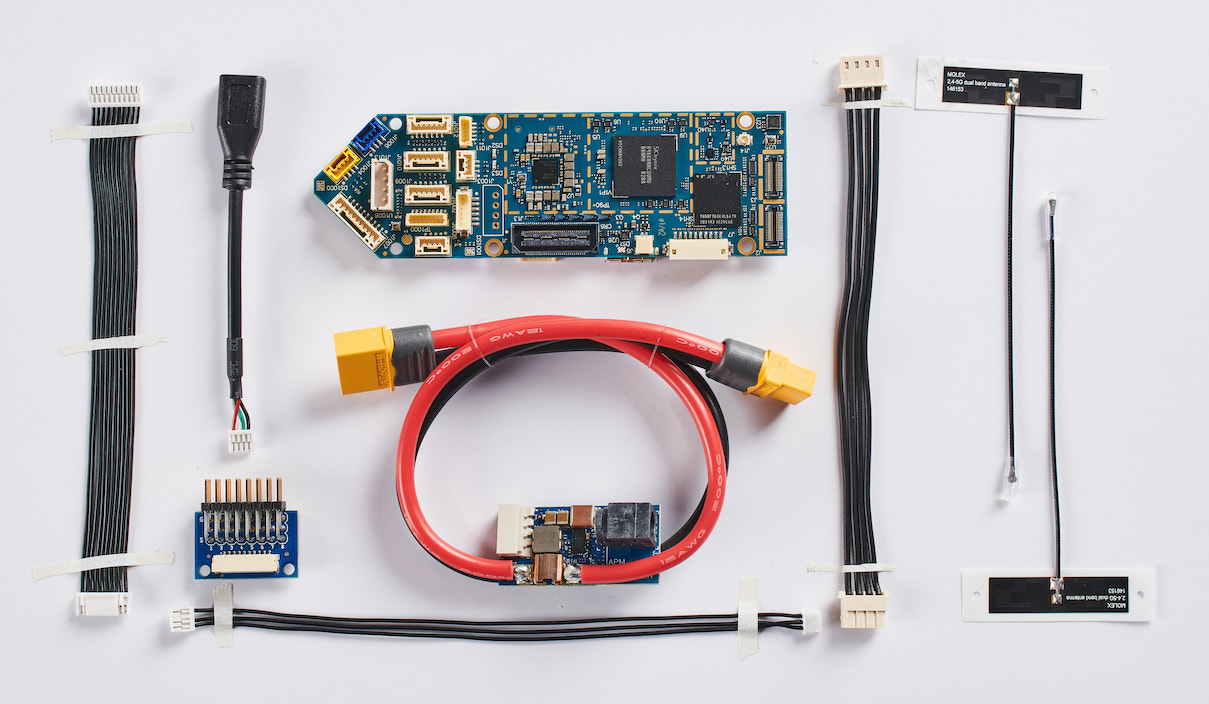
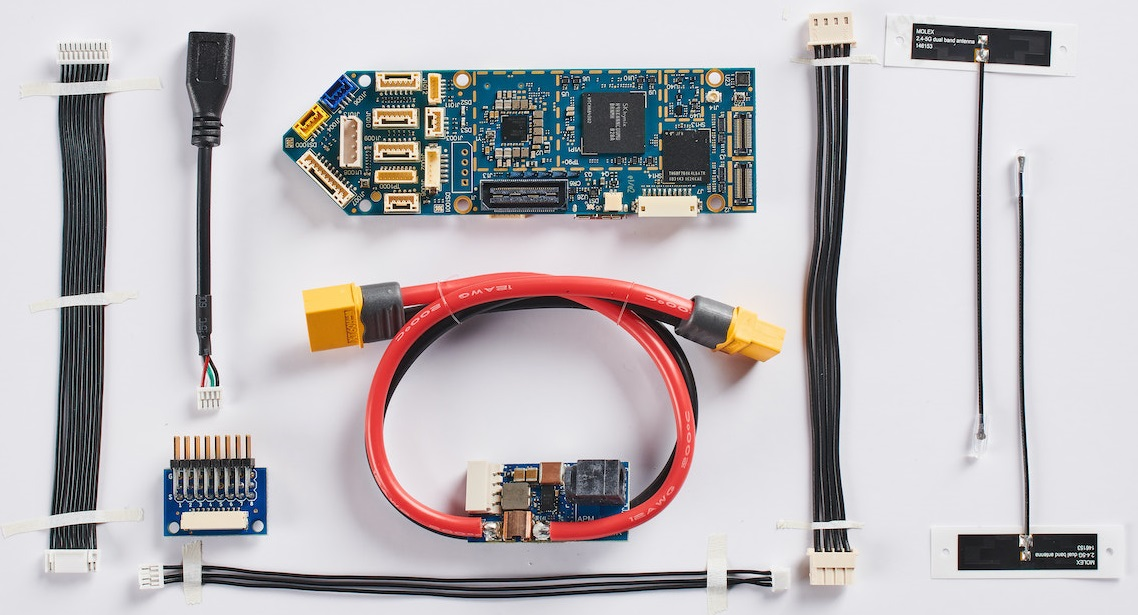
Shrink modalai images

diff --git a/en/flight_controller/modalai_voxl_flight.md b/en/flight_controller/modalai_voxl_flight.md
@@ -5,7 +5,8 @@ PX4 does not manufacture this (or any) autopilot.
 Contact the [manufacturer](https://forum.modalai.com/) for hardware support or compliance issues.
 :::
 
-The ModalAI [VOXL Flight](https://modalai.com/voxl-flight) ([Datasheet](https://docs.modalai.com/voxl-flight-datasheet)) is is one of the first computing platforms to combine the power and sophistication of Snapdragon with the flexibility and ease of use of PX4 on an STM32F7, made in the USA.  VOXL Flight supports obstacle avoidance and GPS-denied (indoor) navigation fused with a PX4 flight controller on a single PCB.
+The ModalAI [VOXL Flight](https://modalai.com/voxl-flight) ([Datasheet](https://docs.modalai.com/voxl-flight-datasheet)) is is one of the first computing platforms to combine the power and sophistication of Snapdragon with the flexibility and ease of use of PX4 on an STM32F7. Made in the USA, VOXL Flight supports obstacle avoidance and GPS-denied (indoor) navigation fused with a PX4 flight controller on a single PCB.
+
 ![VOXL-Flight](../../assets/flight_controller/modalai/voxl_flight/voxl-flight-dk.jpg)
 
 :::note
@@ -76,7 +77,7 @@ More detailed hardware documentation can be found [here](https://docs.modalai.co
 
 ## Dimensions
 
-![FlightCoreV1Dimensions](../../assets/flight_controller/modalai/voxl_flight/voxl-flight-dimensions.png)
+![FlightCoreV1Dimensions](../../assets/flight_controller/modalai/voxl_flight/voxl-flight-dimensions.jpg)
 
 [3D STEP File](https://storage.googleapis.com/modalai_public/modal_drawings/M0019_VOXL-Flight.zip)
 
@@ -106,11 +107,12 @@ This board supported in QGroundControl 4.0 and later.
 
 ## Quick Start
 
-A quickstart from the vendor is located [here](https://docs.modalai.com/voxl-flight-quickstart/)
+A quickstart from the vendor is located [here](https://docs.modalai.com/voxl-flight-quickstart/).
 
 ### voxl-vision-px4
 
-The VOXL Flight runs [voxl-vision-px4](https://gitlab.com/voxl-public/modal-pipe-architecture/voxl-vision-px4) on the  companion computer portion of the hardware serving as a sort of MAVLink proxy.  For details, the source code is available [here](https://gitlab.com/voxl-public/modal-pipe-architecture/voxl-vision-px4)
+The VOXL Flight runs [voxl-vision-px4](https://gitlab.com/voxl-public/modal-pipe-architecture/voxl-vision-px4) on the  companion computer portion of the hardware serving as a sort of MAVLink proxy.
+For details, the source code is available [here](https://gitlab.com/voxl-public/modal-pipe-architecture/voxl-vision-px4)
 
 ### Connectors
 
@@ -118,7 +120,7 @@ Detailed information about the pinouts can be found [here](https://docs.modalai.
 
 #### Top
 
-![VOXLFlightTop](../../assets/flight_controller/modalai/voxl_flight/voxl-flight-top.png)
+![VOXLFlightTop](../../assets/flight_controller/modalai/voxl_flight/voxl-flight-top.jpg)
 
 *Note: 1000 Series connectors accessible from the STM32/PX4*
 
@@ -145,7 +147,7 @@ Detailed information about the pinouts can be found [here](https://docs.modalai.
 
 #### Bottom
 
-![VOXLFlightBottom](../../assets/flight_controller/modalai/voxl_flight/voxl-flight-bottom.png)
+![VOXLFlightBottom](../../assets/flight_controller/modalai/voxl_flight/voxl-flight-bottom.jpg)
 
 *Note: 1000 Series connectors accessible from the STM32/PX4*
 
